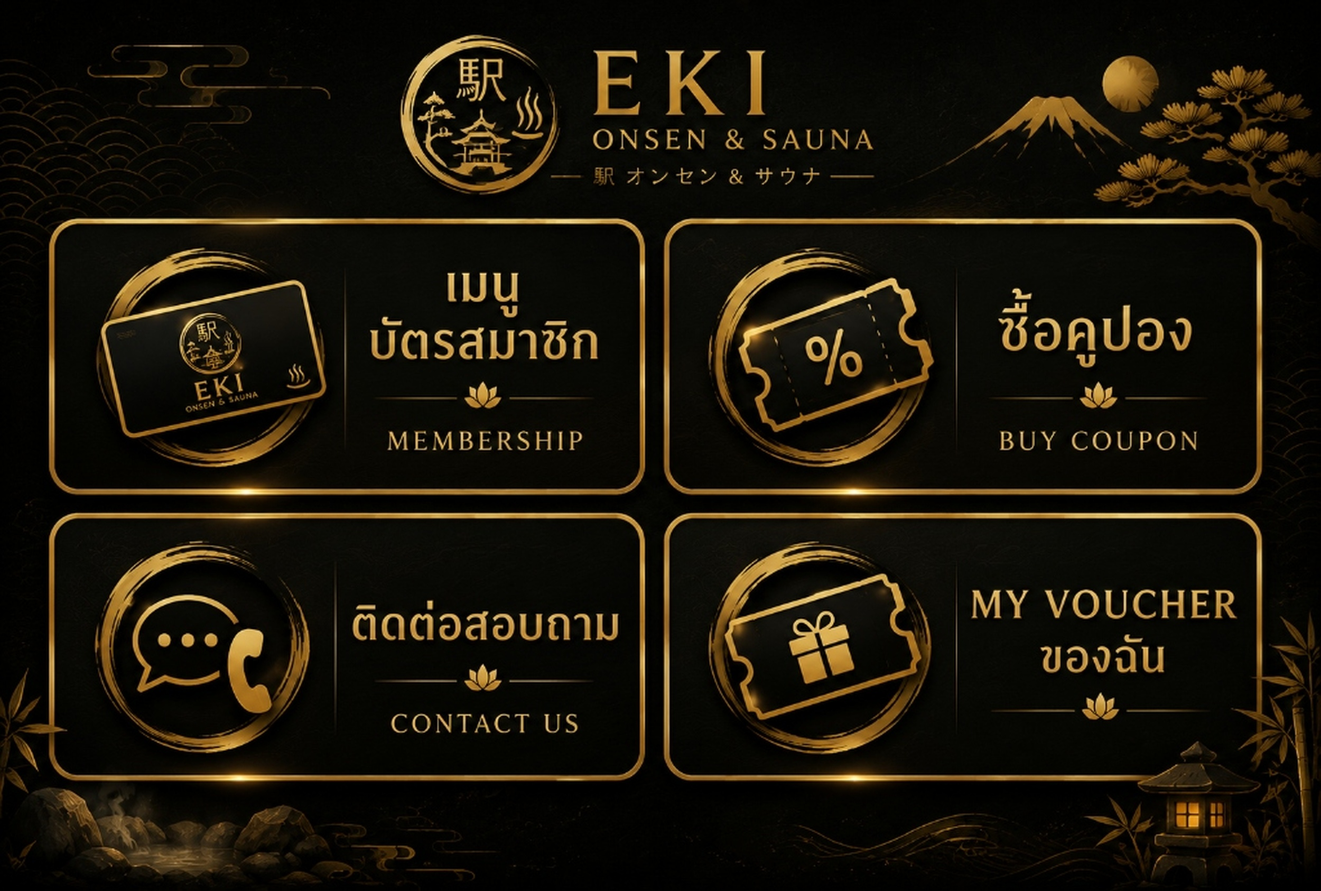
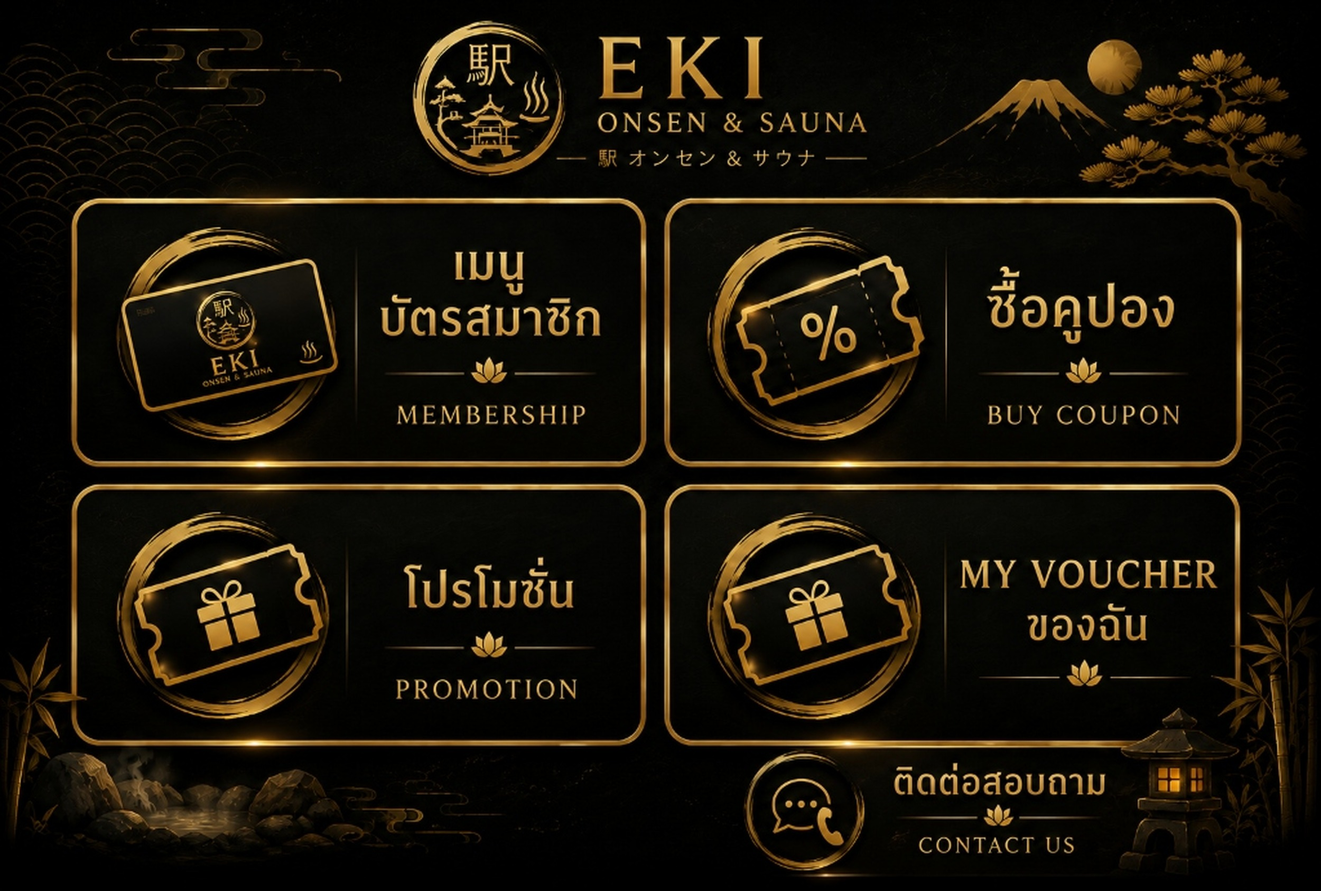
feat: upload and activate new luxury rich menu with contact button action 'ติดต่อ'

Changed region(s): [[0.0, 0.0, 1.0, 0.987], [0.0624, 0.0308, 0.2184, 0.1234]]

diff --git a/Eki Sauna/scripts/setup_line_richmenu.py b/Eki Sauna/scripts/setup_line_richmenu.py
@@ -31,7 +31,7 @@ def delete_rich_menu(channel_access_token: str, rich_menu_id: str):
         print(f'Note: Could not delete {rich_menu_id}: {e}')
 
 def create_and_set_rich_menu(channel_access_token: str, custom_actions: dict = None):
-    # Action configuration for the 4 tiles
+    # Action configuration for the areas
     actions = {
         'membership': custom_actions.get('membership') if (custom_actions and 'membership' in custom_actions) else {
             'type': 'uri',
@@ -42,41 +42,50 @@ def create_and_set_rich_menu(channel_access_token: str, custom_actions: dict = N
             'type': 'message',
             'text': 'ซื้อคูปอง'
         },
-        'contact_us': custom_actions.get('contact_us') if (custom_actions and 'contact_us' in custom_actions) else {
+        'promotion': custom_actions.get('promotion') if (custom_actions and 'promotion' in custom_actions) else {
             'type': 'message',
-            'text': 'ติดต่อสอบถาม'
+            'text': 'โปรโมชั่น'
         },
         'my_voucher': custom_actions.get('my_voucher') if (custom_actions and 'my_voucher' in custom_actions) else {
             'type': 'message',
             'text': 'คูปองของฉัน'
+        },
+        'contact_us': custom_actions.get('contact_us') if (custom_actions and 'contact_us' in custom_actions) else {
+            'type': 'message',
+            'text': 'ติดต่อ'
         }
     }
 
     rich_menu_data = {
         'size': {'width': 2500, 'height': 1686},
         'selected': True,
-        'name': 'Eki Onsen & Sauna Menu',
+        'name': 'Eki Onsen & Sauna Luxury Menu',
         'chatBarText': 'เมนูหลัก',
         'areas': [
             {
-                # 1. Top-Left: เมนู บัตรสมาชิก (Membership) -> LIFF URL
-                'bounds': {'x': 0, 'y': 380, 'width': 1250, 'height': 590},
+                # 1. Top-Left: เมนู บัตรสมาชิก (Membership) -> Open LIFF Webview
+                'bounds': {'x': 0, 'y': 360, 'width': 1250, 'height': 540},
                 'action': actions['membership']
             },
             {
                 # 2. Top-Right: ซื้อคูปอง (Buy Coupon)
-                'bounds': {'x': 1250, 'y': 380, 'width': 1250, 'height': 590},
+                'bounds': {'x': 1250, 'y': 360, 'width': 1250, 'height': 540},
                 'action': actions['buy_coupon']
             },
             {
-                # 3. Bottom-Left: ติดต่อสอบถาม (Contact Us)
-                'bounds': {'x': 0, 'y': 970, 'width': 1250, 'height': 716},
-                'action': actions['contact_us']
+                # 3. Middle-Left: โปรโมชั่น (Promotion)
+                'bounds': {'x': 0, 'y': 900, 'width': 1250, 'height': 520},
+                'action': actions['promotion']
             },
             {
-                # 4. Bottom-Right: MY VOUCHER ของฉัน (My Voucher)
-                'bounds': {'x': 1250, 'y': 970, 'width': 1250, 'height': 716},
+                # 4. Middle-Right: MY VOUCHER ของฉัน (My Voucher)
+                'bounds': {'x': 1250, 'y': 900, 'width': 1250, 'height': 520},
                 'action': actions['my_voucher']
+            },
+            {
+                # 5. Bottom-Right / Bottom: ติดต่อสอบถาม -> ส่งข้อความ 'ติดต่อ'
+                'bounds': {'x': 1200, 'y': 1420, 'width': 1300, 'height': 266},
+                'action': actions['contact_us']
             }
         ]
     }
